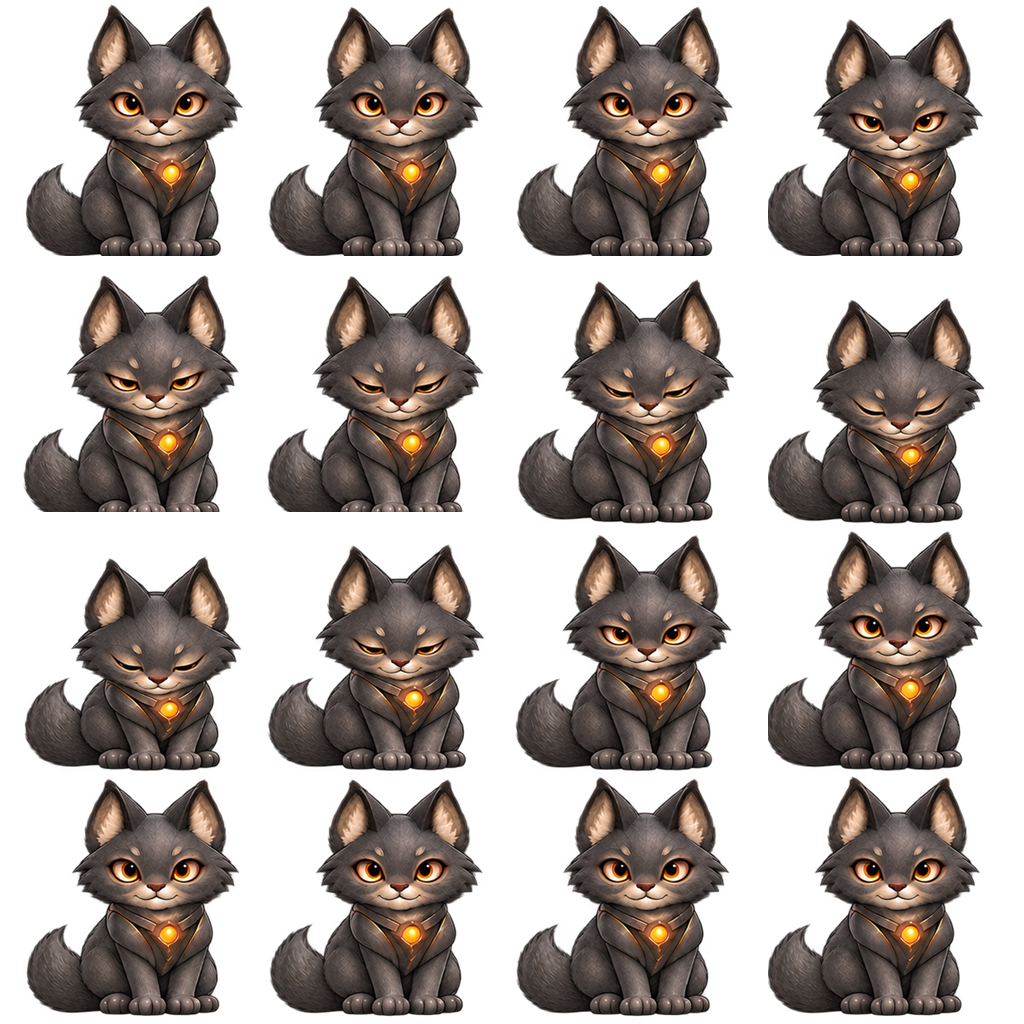
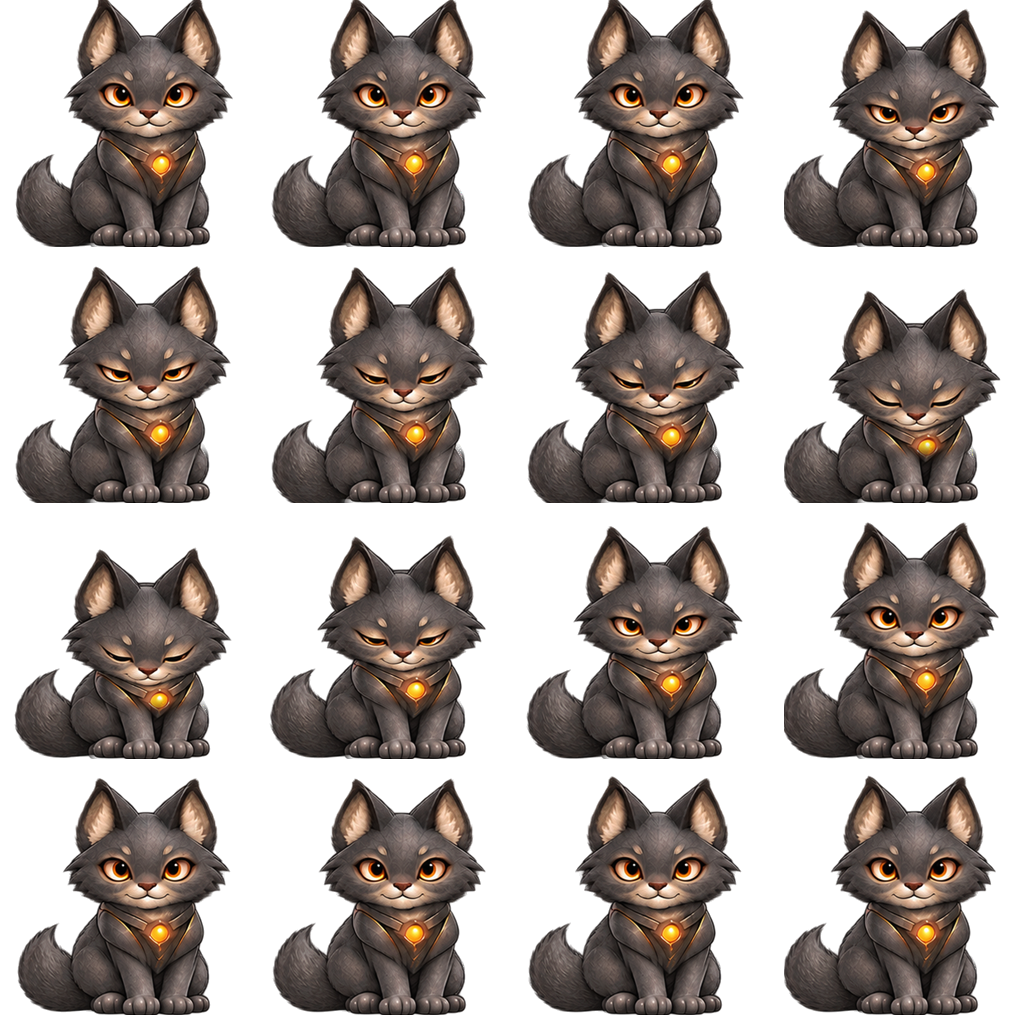
fix: anchor companion animation to front paws

diff --git a/scripts/verify-companion-sprites.ts b/scripts/verify-companion-sprites.ts
@@ -1,0 +1,112 @@
+import { readFile } from "node:fs/promises";
+import { resolve } from "node:path";
+
+import sharp from "sharp";
+
+const sheetNames = [
+  "idle",
+  "waiting",
+  "nod",
+  "smile",
+  "guide-wide",
+  "guide-mobile",
+] as const;
+
+const sheetSize = 1024;
+const cellSize = 256;
+const frameCount = 16;
+const targetBaselineY = 246;
+const alphaThreshold = 40;
+
+function frameOffset(frameIndex: number) {
+  return {
+    x: (frameIndex % 4) * cellSize,
+    y: Math.floor(frameIndex / 4) * cellSize,
+  };
+}
+
+async function readSheet(path: string) {
+  const { data, info } = await sharp(path)
+    .ensureAlpha()
+    .raw()
+    .toBuffer({ resolveWithObject: true });
+
+  if (info.width !== sheetSize || info.height !== sheetSize || info.channels !== 4) {
+    throw new Error(`${path} must be a ${sheetSize}x${sheetSize} RGBA PNG.`);
+  }
+
+  return new Uint8Array(data);
+}
+
+function extractFrame(sheet: Uint8Array, frameIndex: number) {
+  const frame = new Uint8Array(cellSize * cellSize * 4);
+  const offset = frameOffset(frameIndex);
+
+  for (let y = 0; y < cellSize; y += 1) {
+    const sourceStart = ((offset.y + y) * sheetSize + offset.x) * 4;
+    frame.set(
+      sheet.subarray(sourceStart, sourceStart + cellSize * 4),
+      y * cellSize * 4,
+    );
+  }
+
+  return frame;
+}
+
+function baseline(frame: Uint8Array) {
+  let result = -1;
+  for (let y = 0; y < cellSize; y += 1) {
+    for (let x = 0; x < cellSize; x += 1) {
+      if (frame[(y * cellSize + x) * 4 + 3] > alphaThreshold) result = y;
+    }
+  }
+  return result;
+}
+
+function verifyHardPawAnchor(
+  frame: Uint8Array,
+  canonical: Uint8Array,
+  label: string,
+) {
+  for (let y = 208; y < cellSize; y += 1) {
+    for (let x = 100; x <= 226; x += 1) {
+      const index = (y * cellSize + x) * 4;
+      for (let channel = 0; channel < 4; channel += 1) {
+        if (frame[index + channel] !== canonical[index + channel]) {
+          throw new Error(`${label} moved inside the fixed front-paw region.`);
+        }
+      }
+    }
+  }
+
+  if (Math.abs(baseline(frame) - targetBaselineY) > 1) {
+    throw new Error(`${label} has a drifting ground-contact baseline.`);
+  }
+}
+
+const siteImages = resolve("site/public/images");
+const idleSheet = await readSheet(resolve(siteImages, "resumilio-companion-idle.png"));
+const canonicalPaws = extractFrame(idleSheet, 0);
+
+for (const sheetName of sheetNames) {
+  const fileName = `resumilio-companion-${sheetName}.png`;
+  const sitePath = resolve(siteImages, fileName);
+  const starterPath = resolve("starter/site/public/images", fileName);
+  const sitePng = await readFile(sitePath);
+  const starterPng = await readFile(starterPath);
+
+  if (!sitePng.equals(starterPng)) {
+    throw new Error(`${fileName} differs between the product site and starter.`);
+  }
+
+  const sheet = await readSheet(sitePath);
+  for (let frameIndex = 0; frameIndex < frameCount; frameIndex += 1) {
+    verifyHardPawAnchor(
+      extractFrame(sheet, frameIndex),
+      canonicalPaws,
+      `${sheetName} frame ${frameIndex + 1}`,
+    );
+  }
+}
+
+console.log("Verified 96 companion frames against the fixed front-paw anchor.");
